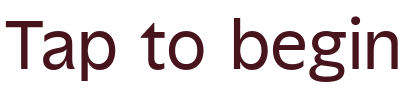
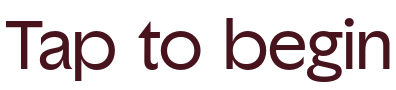
Use PP Palma Fizzy Light for Tap to begin
Claude-Session: https://claude.ai/code/session_01M84a3FKwMRkSZpHB3s8xrt

diff --git a/index.html b/index.html
@@ -170,7 +170,7 @@ h1{font-size:2.5rem}h2{font-size:1.9rem}.slide h3{font-size:1.6rem;margin-top:14
     <video id="introvid" src="assets/landing-full.mp4" poster="assets/poster.jpg" muted playsinline webkit-playsinline preload="auto" aria-hidden="true"></video>
     <img class="panel" src="assets/title.jpg" alt="The Nail Book">
     <video id="loopvid" class="loop" src="assets/wobble.mp4" muted playsinline webkit-playsinline loop preload="auto" aria-hidden="true"></video>
-    <button class="go" type="button"><img src="assets/tapbegin.png" alt="Tap to begin" width="102" height="23" style="display:block;width:101.5px;height:auto"></button>
+    <button class="go" type="button"><img src="assets/tapbegin.png" alt="Tap to begin" width="99" height="23" style="display:block;width:99px;height:auto"></button>
   </div>
 </div>
 <style>
